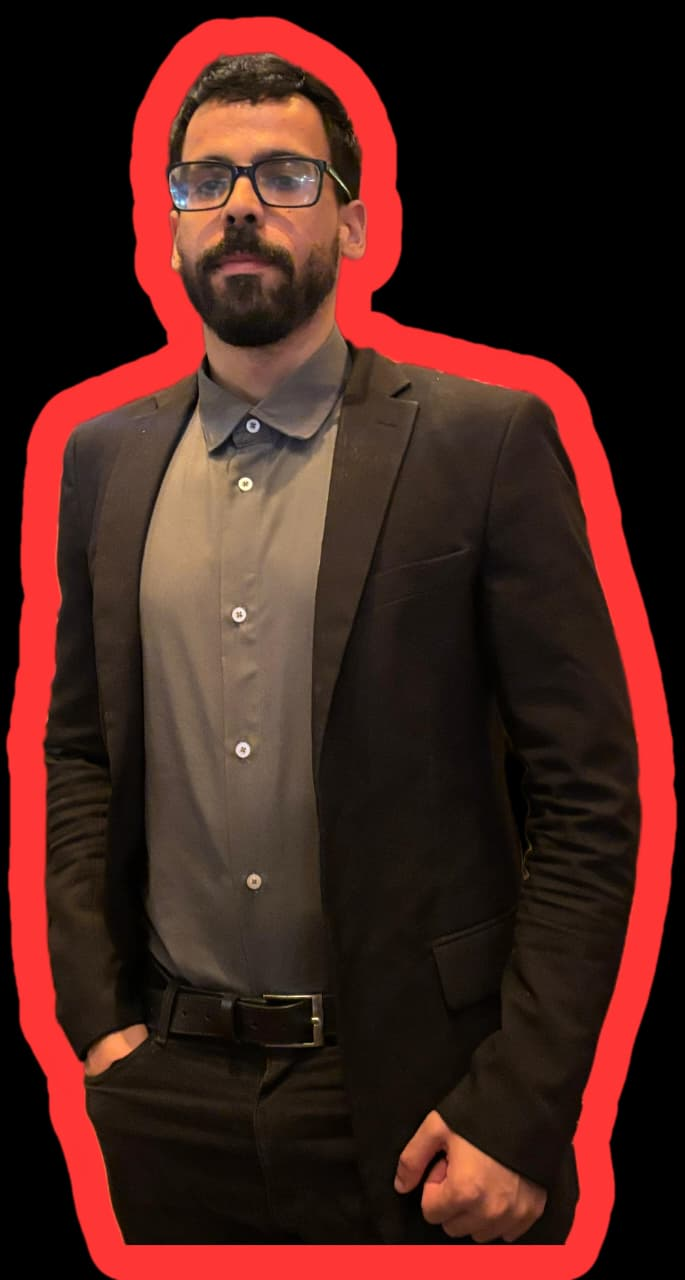
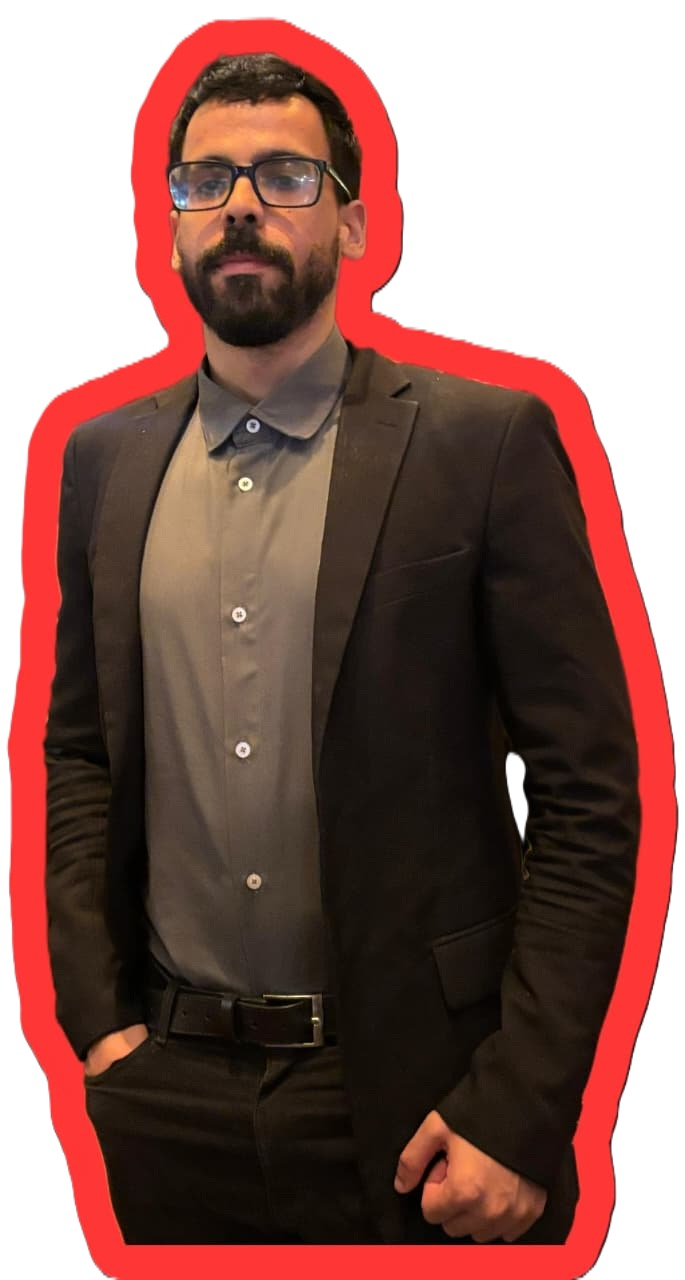
Add files via upload

Changed region(s): [[0.0, 0.0, 1.0, 1.0], [0.7358, 0.5625, 0.7971, 0.6562]]

diff --git a/AVA 1/style.css b/AVA 1/style.css
@@ -1,4 +1,5 @@
-html {scroll-behavior: smooth;
+html {
+    scroll-behavior: smooth;
 }
 footer {
     text-align: center;
@@ -6,7 +7,8 @@ footer {
     font-size: 18px;
     border-style: groove;
     border-width: medium;
-    background-color: rgba(133, 133, 133, 0.774);
+    background-color: rgb(0, 0, 0);
+    color: rgb(199, 68, 68);
     padding-top: 60px;
     padding-bottom: 60px;
     padding-right: 50px;
@@ -16,11 +18,14 @@ header {
     display: flex;
     justify-content: space-between;
     align-items: center;
-    padding: 15px 20px;
-    background-color: rgb(1, 99, 82);
+    padding: 0px 10px;
+    background-color: rgb(0, 0, 0);
     color:rgb(199, 68, 68);
-    border-style: hidden;
-    
+    position: fixed;
+    top: 0;
+    left: 0;
+    width: 100%;
+    z-index: 1000;
 }
 .menu {
     display:flex;
@@ -31,7 +36,7 @@ header {
     display:inline-block;
     width: 80px;
     text-align: center;
-    padding: 10px; 
+    padding: 15px; 
     text-decoration: none;
     transition: background-color 0.3s ease;
     color: rgb(199, 68, 68);
@@ -74,20 +79,28 @@ header {
     color:rgb(201, 69, 69);
     display: flex;
     justify-content: space-between;
-    background-color: rgb(0, 117, 98);
-    align-items: left;
-    min-height: 90vh;
+    background-color: rgba(5, 2, 2, 0.945);
+    align-items: center;
+    min-height: 100vh;
     padding: 100px;
+    width: auto;
+}
+ .img1 img {
+    background-color: rgb(169, 68, 68);
+    height:auto;
+    max-width: 100%;
+    border-radius: 50%;
 }
 .início p{
     color:rgb(255, 255, 255);
-    display: flex;
-    background-color: rgb(0, 117, 98);
+    text-align:justify;
 }
 .texto1 {
     display: flex;
     justify-content: space-between;
     align-items: center;
+    background-color: rgba(5, 2, 2, 0.945);
+    color:rgb(255, 255, 255)
 }
 .texto1 .content{
    width: 50%;
@@ -103,10 +116,10 @@ header {
 }
 .links a {
    font-size: 40px;
-    color: #444;
+    color:rgb(169, 68, 68);
     transition: color 0.3s, transform 0.3s;
 }
 .links a:hover {
-    color: pink;
     transform: scale(1.5);
 }
+{}

diff --git a/AVA 1/index.html b/AVA 1/index.html
@@ -28,7 +28,7 @@
         <p>E este é meu primeiro site!</p>
     </div>
     <div class="img1">
-        <img src="img/foto 1 site.jpeg" alt="foto minha">
+        <img src="img/foto 1 site.png" alt="foto minha">
     </div>
     </div>
     
